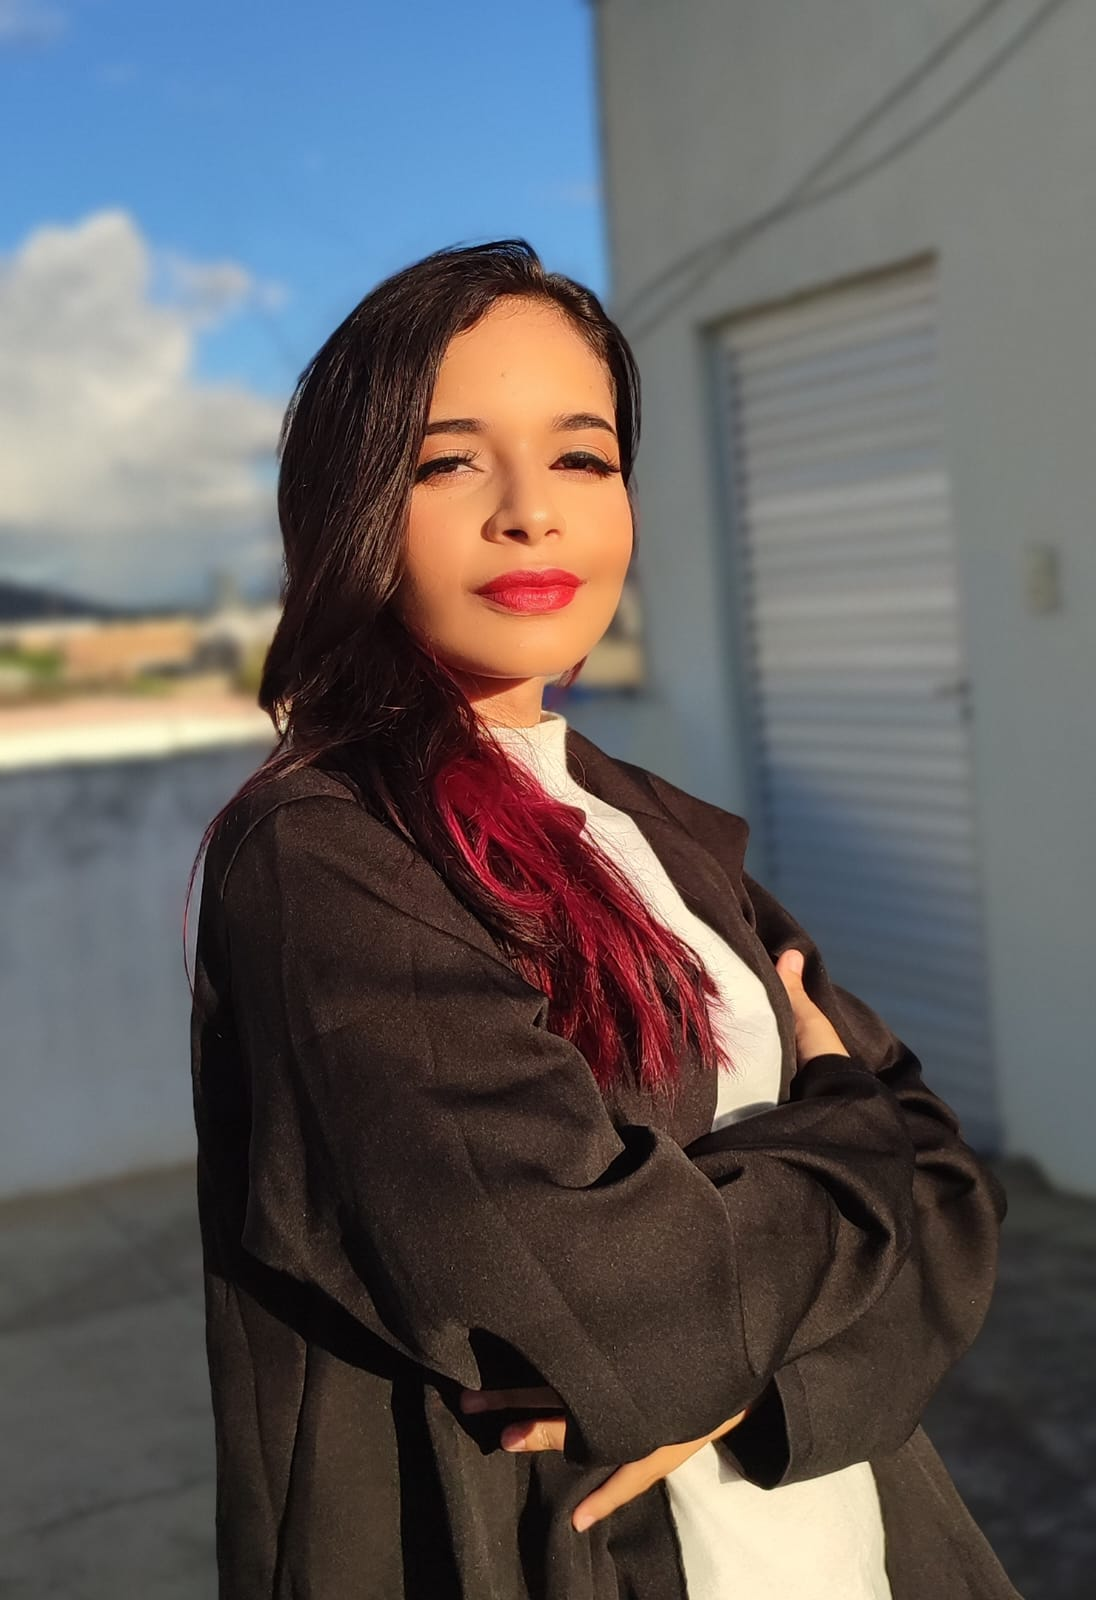
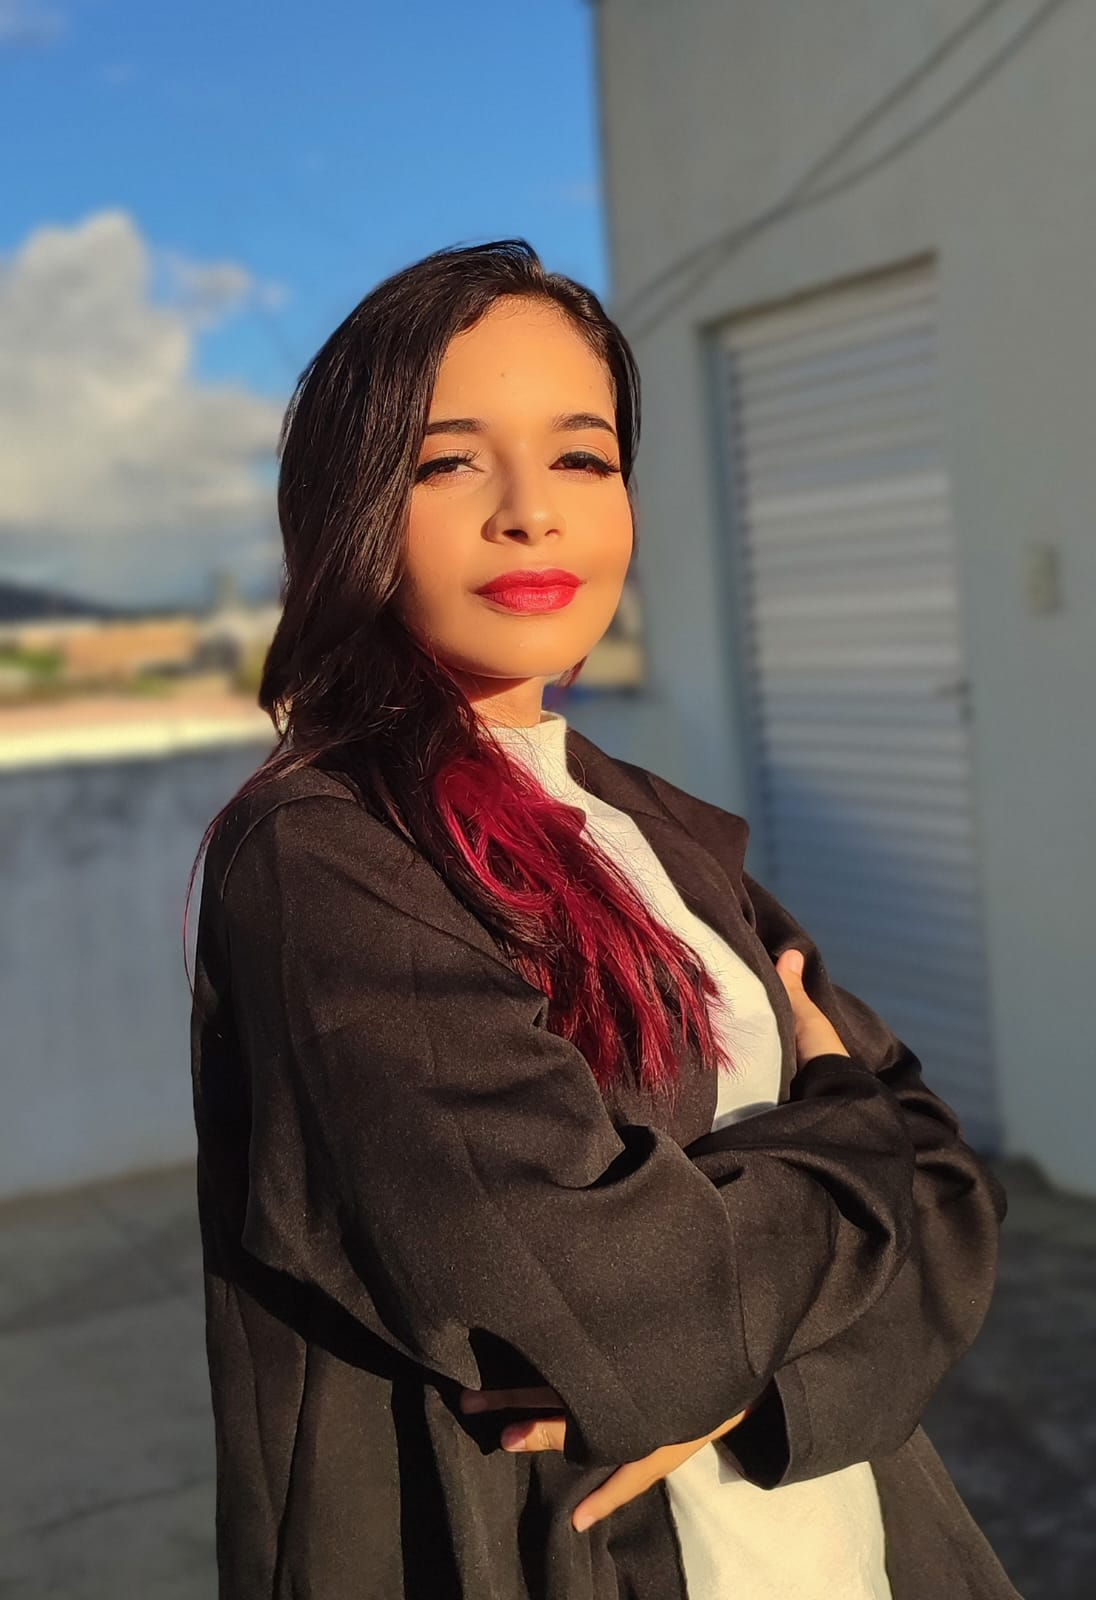
Add files via upload

diff --git a/style.css b/style.css
@@ -388,6 +388,11 @@ h2.titulo span{
 
 
 
+/* Estilos padrão para telas maiores (desktops) */
+.btn-abrir-menu, .menu-mobile, .overlay-menu {
+    display: none;
+}
+
 /* Adicione uma regra de mídia para aplicar estilos apenas em dispositivos móveis */
 @media screen and (min-width: 1020px) {
     .btn-abrir-menu, .menu-mobile, .overlay-menu {

diff --git a/index.html b/index.html
@@ -109,7 +109,7 @@
         
         </div><!--txt-sobre-->
             <div class="img-sobre">
-                <img src="imagens/foto.png" alt="">
+                <img src="imagens/foto.jpg" alt="">
             </div>
         </div><!--flex-->
     </div><!--interface-->
